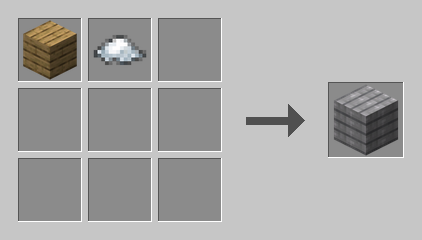
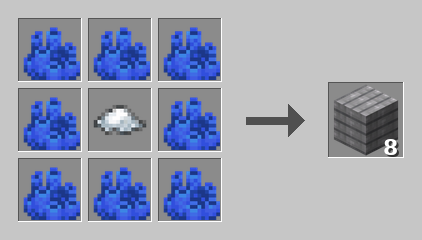
audit2 wrap: pindyj's plank recipe, doc/advancement regen, 4 proof renders, harness HUD flag
- driftwood_plank recipe per pindyj: shaped salt core + ring of any 8
  #minecraft:planks -> 8 (was shapeless 1 oak + 1 salt -> 1)
- regen cascade: 86-recipe README table + advancements + cards + site
- proof renders close M6 (natural trench worldgen flyover), M11+L29
  (stocked tanks, seamless adjacent glass), L4 (boss bar), L25 (worn kit)
- render harness: oo.probe.hud flag (boss-bar shots), KEEP_LOG switch,
  tutorial-toast suppression; marker-entity aim pattern for block scenes
- gates: 62/62 gametests, build clean, validate-data 334 files

diff --git a/src/renderprobe/java/me/tinyclaw/oceanoverhaul/renderprobe/RenderProbeClient.java b/src/renderprobe/java/me/tinyclaw/oceanoverhaul/renderprobe/RenderProbeClient.java
@@ -120,6 +120,8 @@ public class RenderProbeClient implements ClientModInitializer {
 	// dir at the title screen, then quit. Item models are baked during the initial
 	// resource load, so no world is needed.
 	private final String iconDumpDir = System.getProperty("oo.probe.iconDump", "").trim();
+	// Keep the HUD visible in shots that need it (boss bars etc.): -Doo.probe.hud=true.
+	private final boolean showHud = Boolean.getBoolean("oo.probe.hud");
 
 	private List<String> resetCmds = new ArrayList<>();
 	private List<Scene> scenes = new ArrayList<>();
@@ -310,7 +312,7 @@ public class RenderProbeClient implements ClientModInitializer {
 				// Let the renderer actually DRAW before grabbing the framebuffer.
 				Scene s = current();
 				if (client.currentScreen != null) client.setScreen(null);
-				client.options.hudHidden = true;
+				client.options.hudHidden = !showHud;
 				holdCamera(client);
 				int settle = (s != null) ? s.settleTicks : DEFAULT_SETTLE_TICKS;
 				if (phaseTicks % 40 == 0) {
@@ -382,7 +384,7 @@ public class RenderProbeClient implements ClientModInitializer {
 	 * correct frame. With an aimType, recompute pitch/yaw to point at that entity.
 	 */
 	private void pose(MinecraftClient client) {
-		client.options.hudHidden = true;
+		client.options.hudHidden = !showHud;
 		client.options.setPerspective(Perspective.FIRST_PERSON);
 		try {
 			client.options.getFov().setValue(70);

diff --git a/README.md b/README.md
@@ -89,7 +89,7 @@ Contributions and ideas welcome — fork it and build the ocean out.
 <!-- RECIPES:START (generated by scripts/gen-recipe-docs.py — do not edit by hand) -->
 ## Recipes
 
-All 74 recipes the mod adds, generated straight from the recipe JSON (`scripts/gen-recipe-docs.py`). Shaped patterns are shown row-by-row (`.` = empty slot) with a key legend; “Any Coral” / “Any Coral Block” means any of the five vanilla coral colors works.
+All 86 recipes the mod adds, generated straight from the recipe JSON (`scripts/gen-recipe-docs.py`). Shaped patterns are shown row-by-row (`.` = empty slot) with a key legend; “Any Coral” / “Any Coral Block” means any of the five vanilla coral colors works.
 
 ### Crafting table (57)
 
@@ -113,7 +113,7 @@ All 74 recipes the mod adds, generated straight from the recipe JSON (`scripts/g
 | Driftwood Button | 1 | Shapeless | Driftwood Plank |
 | Driftwood Door | 3 | Shaped | `## / ## / ##`  (# = Driftwood Plank) |
 | Driftwood Fence Gate | 1 | Shaped | `#W# / #W#`  (# = Stick, W = Driftwood Plank) |
-| Driftwood Plank | 1 | Shapeless | Oak Planks + Sea Salt |
+| Driftwood Plank | 8 | Shaped | `PPP / PSP / PPP`  (P = Any Planks, S = Sea Salt) |
 | Driftwood Plank Fence | 3 | Shaped | `W#W / W#W`  (W = Driftwood Plank, # = Stick) |
 | Driftwood Plank Slab | 6 | Shaped | `###`  (# = Driftwood Plank) |
 | Driftwood Plank Stairs | 4 | Shaped | `#.. / ##. / ###`  (# = Driftwood Plank) |
@@ -158,24 +158,36 @@ All 74 recipes the mod adds, generated straight from the recipe JSON (`scripts/g
 | Result | Process | Source | XP | Time (ticks) |
 | --- | --- | --- | --- | --- |
 | Abyssal Pearl | Smelt | Abyssal Coral Block | 0.3 | 200 |
+| Cooked Reef Fish | Campfire | Raw Reef Fish | 0.35 | 600 |
 | Cooked Reef Fish | Smelt | Raw Reef Fish | 0.35 | 200 |
 | Cooked Reef Fish | Smoke | Raw Reef Fish | 0.35 | 100 |
-| Sea Salt | Smelt | Salt Block | 0.3 | 200 |
 | Sea Salt | Smelt | Kelp | 0.1 | 200 |
 | Tide Pearl | Smelt | Prismarine Crystals | 0.3 | 200 |
 
-### Stonecutter (11)
+### Stonecutter (23)
 
 | Result | Qty | Cut from |
 | --- | --- | --- |
+| Chiseled Prismarine Tiles | 1 | Polished Prismarine Bricks |
+| Chiseled Prismarine Tiles | 1 | Prismarine Bricks |
+| Chiseled Prismarine Tiles Slab | 2 | Polished Prismarine Bricks |
+| Chiseled Prismarine Tiles Slab | 2 | Prismarine Bricks |
 | Chiseled Prismarine Tiles Slab | 2 | Chiseled Prismarine Tiles |
+| Chiseled Prismarine Tiles Stairs | 1 | Polished Prismarine Bricks |
+| Chiseled Prismarine Tiles Stairs | 1 | Prismarine Bricks |
 | Chiseled Prismarine Tiles Stairs | 1 | Chiseled Prismarine Tiles |
+| Chiseled Prismarine Tiles Wall | 1 | Polished Prismarine Bricks |
+| Chiseled Prismarine Tiles Wall | 1 | Prismarine Bricks |
 | Chiseled Prismarine Tiles Wall | 1 | Chiseled Prismarine Tiles |
 | Pearl Block Slab | 2 | Pearl Block |
 | Pearl Block Stairs | 1 | Pearl Block |
 | Pearl Block Wall | 1 | Pearl Block |
+| Polished Prismarine Bricks | 1 | Prismarine Bricks |
+| Polished Prismarine Bricks Slab | 2 | Prismarine Bricks |
 | Polished Prismarine Bricks Slab | 2 | Polished Prismarine Bricks |
+| Polished Prismarine Bricks Stairs | 1 | Prismarine Bricks |
 | Polished Prismarine Bricks Stairs | 1 | Polished Prismarine Bricks |
+| Polished Prismarine Bricks Wall | 1 | Prismarine Bricks |
 | Polished Prismarine Bricks Wall | 1 | Polished Prismarine Bricks |
 | Sea Glass Slab | 2 | Sea Glass |
 | Sea Glass Stairs | 1 | Sea Glass |
@@ -225,7 +237,7 @@ Every crafting-table recipe the mod adds, rendered as the grid + result (icons a
 <td align="center"><img src="docs/recipes/driftwood_fence_gate.png" width="300"><br><sub>Driftwood Fence Gate</sub></td>
 </tr>
 <tr>
-<td align="center"><img src="docs/recipes/driftwood_plank.png" width="300"><br><sub>Driftwood Plank</sub></td>
+<td align="center"><img src="docs/recipes/driftwood_plank.png" width="300"><br><sub>Driftwood Plank ×8</sub></td>
 <td align="center"><img src="docs/recipes/driftwood_plank_fence.png" width="300"><br><sub>Driftwood Plank Fence ×3</sub></td>
 </tr>
 <tr>

diff --git a/docs/feature-audit-2.md b/docs/feature-audit-2.md
@@ -155,9 +155,9 @@ Baseline at audit time — HEAD `2088177`, 74 recipes, 36 block loot tables + 4 
 | Gametest suite (`report.xml`) | **52/52, 0 failures** @ 2026-06-09T21:54:55Z | **52/52, 0 failures** (fresh, 2026-06-10T00:0x UTC, same HEAD) |
 | `./gradlew build` | clean (v0.12.0) | clean |
 | Registration↔data id sweep | 0 dangling | validate-data PASS, 322 files |
-| In-world worldgen flyover screenshot (closes **M6**) | missing | __ |
-| Stocked-aquarium through-glass screenshot (closes **M11**, checks L29) | missing | __ |
-| Boss + boss-bar HUD screenshot (closes L4) | missing | __ |
-| Worn diving-kit render (closes half of L25) | missing | __ |
+| In-world worldgen flyover screenshot (closes **M6**) | missing | **DONE** — `docs/renders/trench-worldgen.png` (natural gen @ seed-12345 deep ocean, 128/384: plankton patch + vents visible) |
+| Stocked-aquarium through-glass screenshot (closes **M11**, checks L29) | missing | **DONE** — `docs/renders/aquarium-stocked.png` (pink jelly variant 2 + reef fish, adjacent tanks seamless = L29 cull verified) |
+| Boss + boss-bar HUD screenshot (closes L4) | missing | **DONE** — `docs/renders/megalodon-bossbar.png` (lang-key title via getDisplayName) |
+| Worn diving-kit render (closes half of L25) | missing | **DONE** — `docs/renders/diving-kit-worn.png` (textured worn layers confirmed) |
 
 Round-1 fix regression spot-checks, all held as of this audit: `pickaxe.json:26-28` trench trio · `OceanOverhaul.java:1068` NV 300/220 · `salt_block_from_block.json` x9 · `OceanOverhaulWorldgen.java:113-117` lurker w8 · `README.md:42` + `OceanOverhaul.java:1073` counts · `RecipeGameTest.java:60-89` assert backfill.
